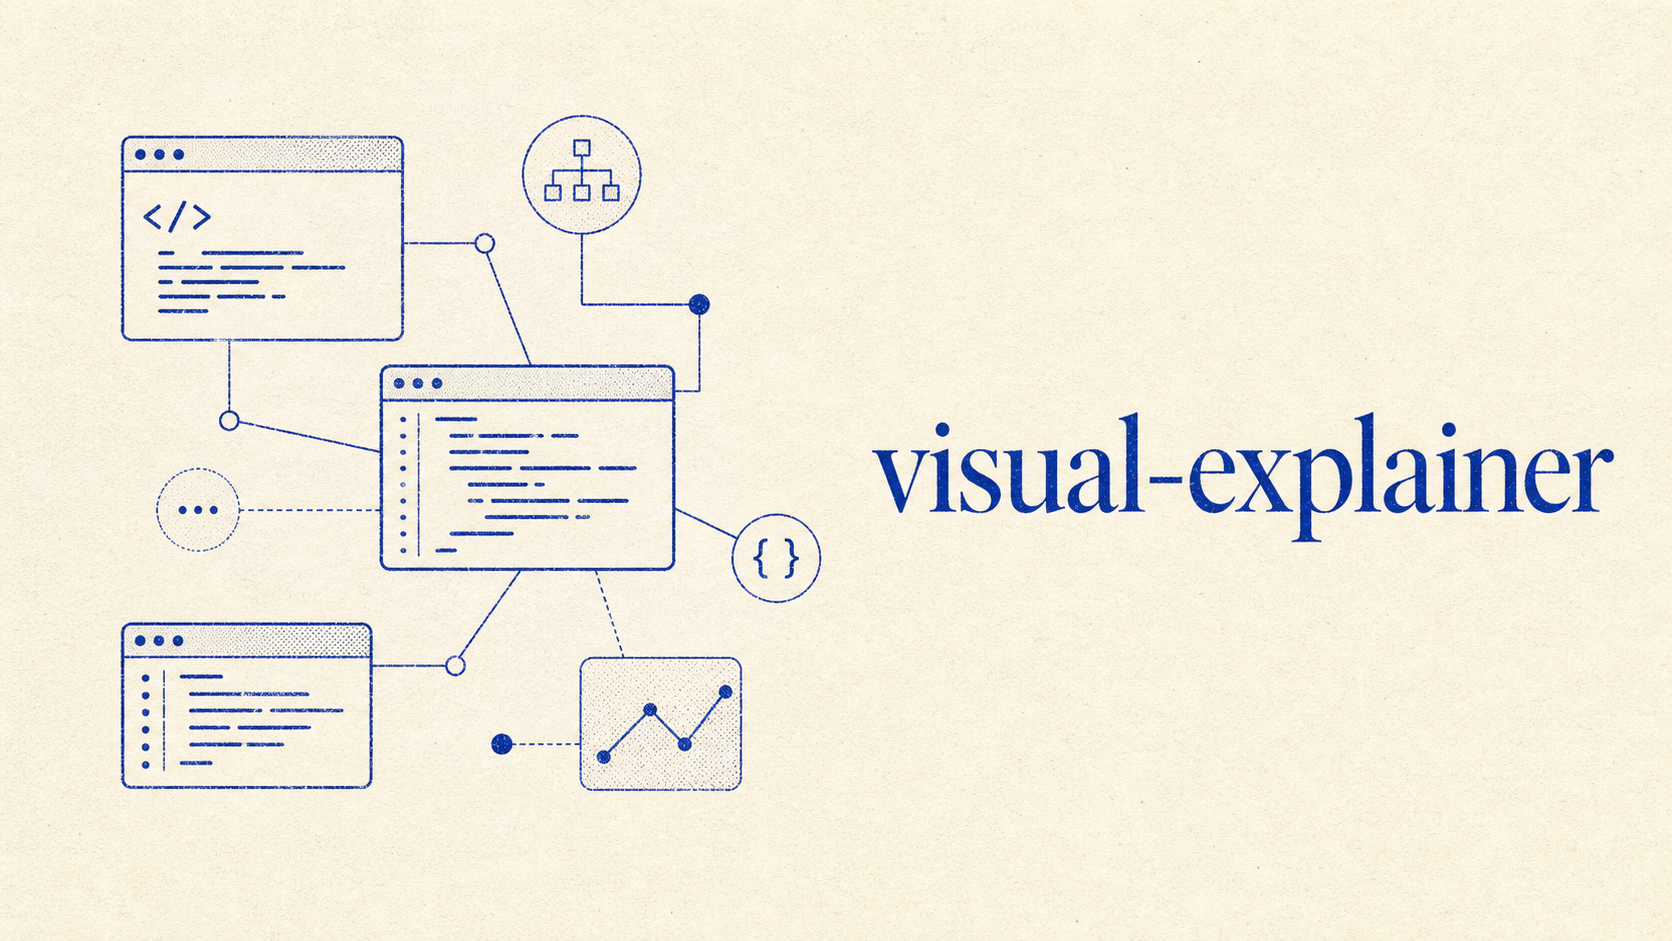
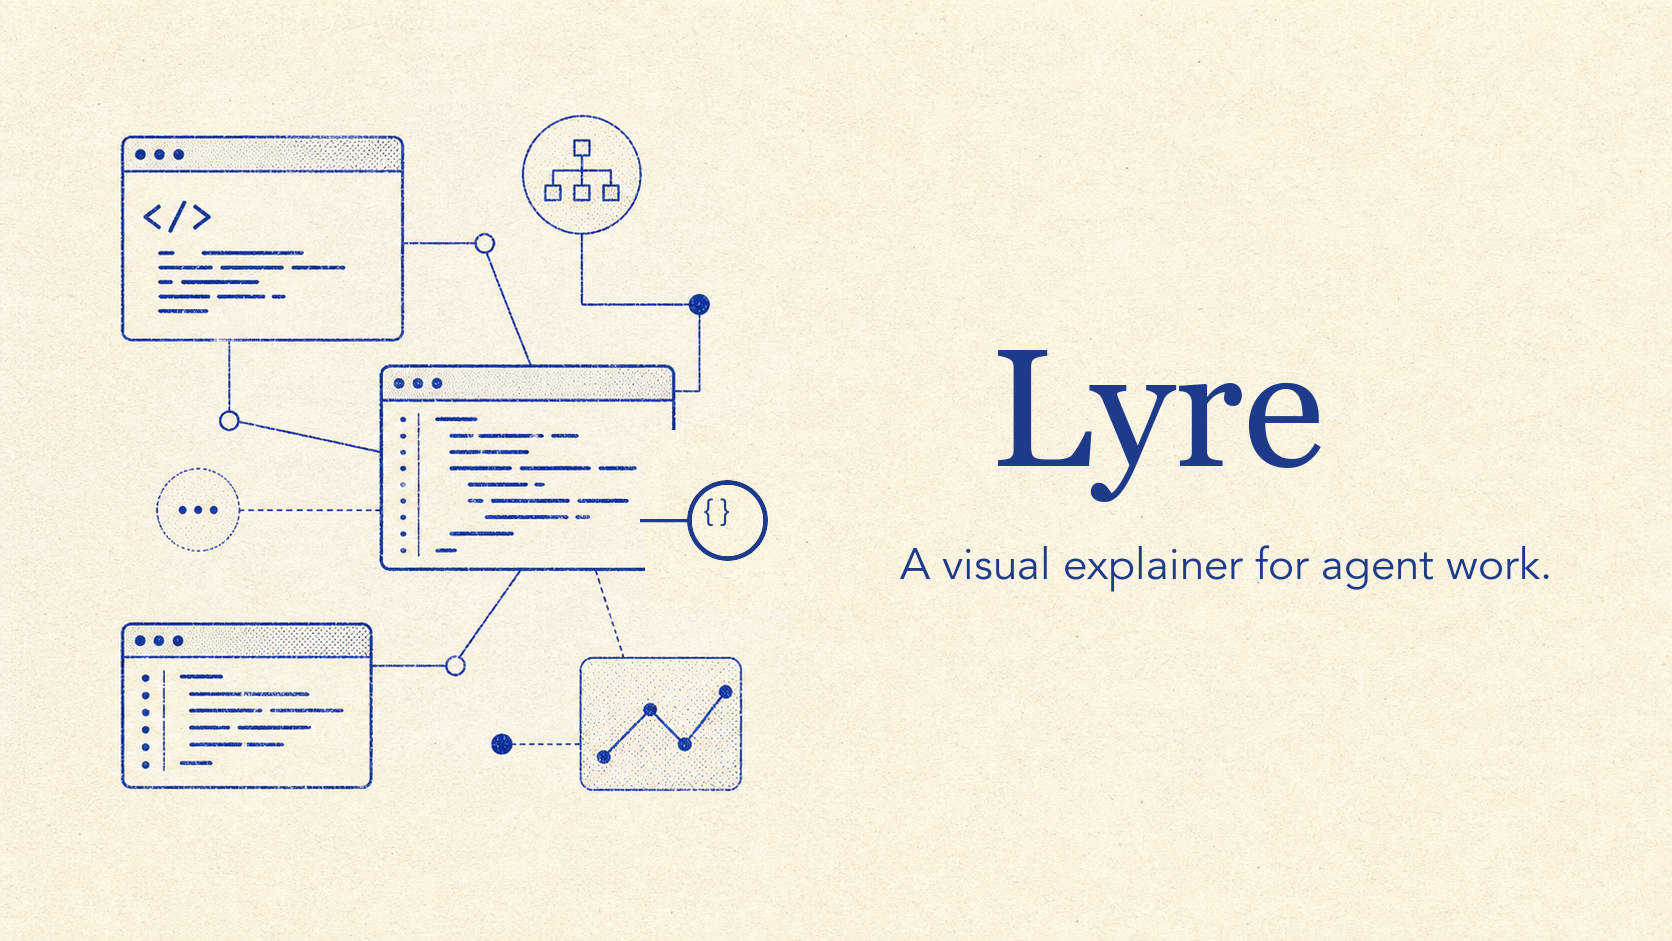
fix(omp): lowercase plugin name and correct OMP install docs
Port the v0.8.0 OMP plugin WIP and fix the issues found in Themis's
live validation against omp 16.3.4:

- Rename plugin to visual-explainer in marketplace.json, plugin.json,
  and the nested .claude-plugin/plugin.json — OMP silently drops
  catalog entries whose name fails ^[a-z0-9]([a-z0-9.-]*[a-z0-9])?$
- Correct 'omp marketplace add' to 'omp plugin marketplace add' in
  README and AGENTS.md
- Lowercase install refs to visual-explainer@visual-explainer-marketplace
  (including the Claude Code /plugin install ref the rename orphaned)
- Replace broken local-path install (link-mode needs package.json)
  with 'omp install .' from repo root; document ./-prefix rule for
  local marketplace sources and full-ref uninstall requirement
- Extend AGENTS.md version-sync guardrail to cover the lowercase
  name invariant across all three metadata files

Changed region(s): [[0.5287, 0.3698, 0.9641, 0.6164], [0.3732, 0.4931, 0.4976, 0.6164]]

diff --git a/README.md b/README.md
@@ -61,22 +61,51 @@ VisualExplainer turns that same information into a web page:
 
 ## Install
 
-### Claude Code marketplace
+This section gives you one working path for each supported agent surface. After installing, start a fresh agent session so the new skill and command templates are loaded.
+
+### Claude Code
+
+Install from the Claude Code plugin marketplace:
 
 ```shell
 /plugin marketplace add edheltzel/VisualExplainer
-/plugin install VisualExplainer@VisualExplainer-marketplace
+/plugin install visual-explainer@visual-explainer-marketplace
 ```
 
-Claude Code namespaces commands as `/VisualExplainer:command-name`.
+You should see Claude Code report that the `VisualExplainer` plugin installed successfully.
+
+Claude Code namespaces plugin commands. Use:
+
+```text
+/VisualExplainer:generate-web-diagram
+/VisualExplainer:generate-visual-plan
+/VisualExplainer:visual-recap
+/VisualExplainer:diff-review
+/VisualExplainer:plan-review
+```
+
+You can also ask Claude Code to use the `VisualExplainer` skill directly when you want diagrams, visual plans, diff reviews, recaps, slide decks, or complex tables rendered as browser pages.
 
 ### Pi
+
+Install the package from GitHub:
 
 ```bash
 pi install git:github.com/edheltzel/VisualExplainer
 ```
 
-From a local checkout:
+You should see Pi install the package and register the skill plus command templates. Start a fresh Pi session, then invoke:
+
+```text
+$VisualExplainer
+/generate-web-diagram
+/generate-visual-plan
+/visual-recap
+/diff-review
+/plan-review
+```
+
+For local development, install from a checkout instead:
 
 ```bash
 git clone --depth 1 https://github.com/edheltzel/VisualExplainer.git
@@ -92,12 +121,53 @@ The package manifest advertises the canonical skill and command templates:
 }
 ```
 
-If you previously used the old curl/manual installer, remove those copied files before using `pi install`; otherwise Pi may report skill and prompt conflicts because user-level copies shadow package resources:
+### OMP
+
+Install directly from GitHub with OMP:
 
 ```bash
-rm -rf ~/.pi/agent/skills/VisualExplainer
-rm -f ~/.pi/agent/prompts/{diff-review,fact-check,generate-slides,generate-visual-plan,generate-web-diagram,plan-review,project-recap,share-page,visual-recap}.md
+omp install github:edheltzel/visual-explainer
 ```
+
+For project-scoped installs, use OMP's project scope flag:
+
+```bash
+omp install -l github:edheltzel/visual-explainer
+```
+
+For local development, install from the repo root of a checkout (local installs need the root `package.json` manifest, so `omp install ./plugins/VisualExplainer` does not work):
+
+```bash
+git clone --depth 1 https://github.com/edheltzel/visual-explainer.git
+cd visual-explainer
+omp install .
+```
+
+You can also install through the bundled marketplace catalog (local marketplace sources need a `./` prefix or an absolute path):
+
+```bash
+omp plugin marketplace add github:edheltzel/visual-explainer
+omp install visual-explainer@visual-explainer-marketplace
+```
+
+Verify that OMP loaded the plugin surfaces:
+
+```bash
+omp -p '/extensions'
+```
+
+Then start a fresh OMP session and use:
+
+```text
+$VisualExplainer
+/generate-web-diagram
+/generate-visual-plan
+/visual-recap
+```
+
+Generated HTML pages should land in `.agents/diagrams/`. Interactive visual plans and recaps create local MDX review folders with state, comments, approval controls, and agent handoff files.
+
+`/share-page` requires an OMP-compatible `vercel-deploy` plugin or skill. Install publishing support separately when you need hosted pages.
 
 ### Codex CLI
 

diff --git a/AGENTS.md b/AGENTS.md
@@ -32,6 +32,24 @@ vp install
 
 Do not use `npm`, `npx`, `pnpm`, or `yarn` in this repo. Vite+ delegates to Bun because the root `packageManager` field is pinned to Bun.
 
+## OMP plugin contract
+
+`plugins/VisualExplainer/` is also the OMP plugin root. Keep its `plugin.json` version in sync with root `package.json`, `plugins/VisualExplainer/.claude-plugin/plugin.json`, `plugins/VisualExplainer/skills/visual-explainer/SKILL.md`, and `.claude-plugin/marketplace.json`. The plugin `name` must stay lowercase `visual-explainer` (OMP silently drops catalog entries with uppercase names) in `plugins/VisualExplainer/plugin.json`, `plugins/VisualExplainer/.claude-plugin/plugin.json`, and the `plugins[0].name` in `.claude-plugin/marketplace.json`; the directory name `plugins/VisualExplainer` is a path, not the plugin name.
+
+Use OMP commands for OMP installs:
+
+```bash
+omp install github:edheltzel/visual-explainer
+omp install -l github:edheltzel/visual-explainer
+omp plugin marketplace add github:edheltzel/visual-explainer
+omp install visual-explainer@visual-explainer-marketplace
+omp -p '/extensions'
+```
+
+Local installs need the root `package.json` manifest: use `omp install .` from the repo root (`omp install ./plugins/VisualExplainer` fails). Local marketplace sources need a `./` prefix or an absolute path. Uninstalls must use the full ref: `omp plugin uninstall visual-explainer@visual-explainer-marketplace` (the bare name reports success without removing a marketplace-scoped install).
+
+Do not document OMP installs with `pi install`; Pi and OMP have separate package managers even though this repo supports both surfaces.
+
 ## Architecture map
 
 ```text